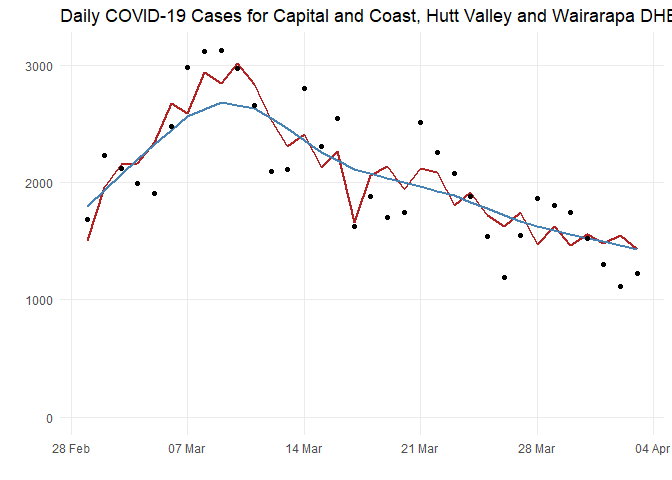
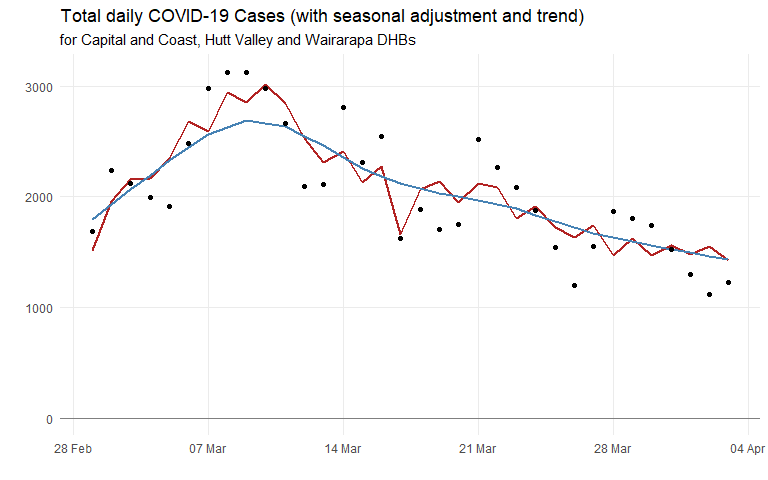
Improve vis and labelling

diff --git a/covid-time-series.md b/covid-time-series.md
@@ -31,57 +31,9 @@ cases_df <- read_csv(case_data_url) %>%
     ## i Specify the column types or set `show_col_types = FALSE` to quiet this message.
 
 ``` r
-head(cases_df)
+# head(cases_df)
+# skim(cases_df)
 ```
-
-    ## # A tibble: 6 x 7
-    ##   report_date case_status sex   age_group dhb           overseas_travel historical
-    ##   <date>      <chr>       <chr> <chr>     <chr>         <chr>           <lgl>     
-    ## 1 2022-04-03  Confirmed   Male  40 to 49  Whanganui     Unknown         NA        
-    ## 2 2022-04-03  Confirmed   Male  70 to 79  Bay of Plenty Unknown         NA        
-    ## 3 2022-04-03  Confirmed   Male  0 to 9    Auckland      Unknown         NA        
-    ## 4 2022-04-03  Confirmed   Male  60 to 69  Wairarapa     Unknown         NA        
-    ## 5 2022-04-03  Confirmed   Male  10 to 19  Auckland      Unknown         NA        
-    ## 6 2022-04-03  Confirmed   Male  40 to 49  Hawke's Bay   Unknown         NA
-
-``` r
-skim(cases_df)
-```
-
-|                                                  |           |
-|:-------------------------------------------------|:----------|
-| Name                                             | cases\_df |
-| Number of rows                                   | 703467    |
-| Number of columns                                | 7         |
-| \_\_\_\_\_\_\_\_\_\_\_\_\_\_\_\_\_\_\_\_\_\_\_   |           |
-| Column type frequency:                           |           |
-| character                                        | 5         |
-| Date                                             | 1         |
-| logical                                          | 1         |
-| \_\_\_\_\_\_\_\_\_\_\_\_\_\_\_\_\_\_\_\_\_\_\_\_ |           |
-| Group variables                                  | None      |
-
-**Variable type: character**
-
-| skim\_variable   |  n\_missing|  complete\_rate|  min|  max|  empty|  n\_unique|  whitespace|
-|:-----------------|-----------:|---------------:|----:|----:|------:|----------:|-----------:|
-| case\_status     |           0|               1|    8|    9|      0|          2|           0|
-| sex              |           0|               1|    4|   13|      0|          4|           0|
-| age\_group       |           0|               1|    3|    8|      0|         11|           0|
-| dhb              |           0|               1|    5|   30|      0|         22|           0|
-| overseas\_travel |           0|               1|    2|    7|      0|          3|           0|
-
-**Variable type: Date**
-
-| skim\_variable |  n\_missing|  complete\_rate| min        | max        | median     |  n\_unique|
-|:---------------|-----------:|---------------:|:-----------|:-----------|:-----------|----------:|
-| report\_date   |           0|               1| 2020-02-26 | 2022-04-03 | 2022-03-12 |        665|
-
-**Variable type: logical**
-
-| skim\_variable |  n\_missing|  complete\_rate|  mean| count |
-|:---------------|-----------:|---------------:|-----:|:------|
-| historical     |      703467|               0|   NaN| :     |
 
 ## DHB summaries
 
@@ -127,12 +79,13 @@ wfh_start_date <- ymd(20220221)
 dhb_cases_df %>%
   ggplot() +
   geom_vline(xintercept = wfh_start_date, colour = "firebrick") +
+  geom_hline(yintercept = 0, colour = "grey50") +
   geom_col(aes(x = report_date, y = cases, fill = dhb), position = "stack", width = 0.8) +
   scale_y_continuous(limits = c(0, NA)) +
   scale_x_date(date_breaks = "1 week", date_labels = "%d %b") +
   scale_fill_viridis_d(option = "D", guide = guide_legend(title = "DHB")) +
-  labs(x = "", y= "",
-       title = str_glue("Daily COVID-19 Cases for {dhb_names_label} DHBs")) +
+  labs(x = "", y= "", title = "Daily COVID-19 Cases",
+       subtitle = str_glue("for {dhb_names_label} DHBs")) +
   theme_minimal() +
   theme(panel.grid.minor = element_blank())
 ```
@@ -144,7 +97,6 @@ dhb_cases_df %>%
 To best capture the weekly seasonality, it might be best to start modelling from about the time that the reporting process was changed by RATs: probably about the beginning of March.
 
 ``` r
-# model_start_date <- ymd(20220101)
 model_start_date <- ymd(20220301)
 
 dhb_cases_ts <- dhb_cases_df %>% 
@@ -172,13 +124,14 @@ dhb_cases_stl %>%
   select(report_date, cases, trend, season_adjust) %>% 
   ggplot() +
   # geom_vline(xintercept = wfh_start_date, colour = "firebrick") +
+  geom_hline(yintercept = 0, colour = "grey50") +
   geom_line(aes(x = report_date, y = season_adjust), colour = "firebrick", size = 1) +
   geom_line(aes(x = report_date, y = trend), colour = "steelblue", size = 1) +
   geom_point(aes(x = report_date, y = cases)) +
   scale_x_date(date_breaks = "1 week", date_labels = "%d %b") +
   scale_y_continuous(limits = c(0, NA)) +
-  labs(x = "", y= "",
-       title = str_glue("Daily COVID-19 Cases for {dhb_names_label} DHBs")) +
+  labs(x = "", y= "", title = "Total daily COVID-19 Cases (with seasonal adjustment and trend)",
+       subtitle = str_glue("for {dhb_names_label} DHBs")) +
   theme_minimal() +
   theme(panel.grid.minor = element_blank())
 ```
